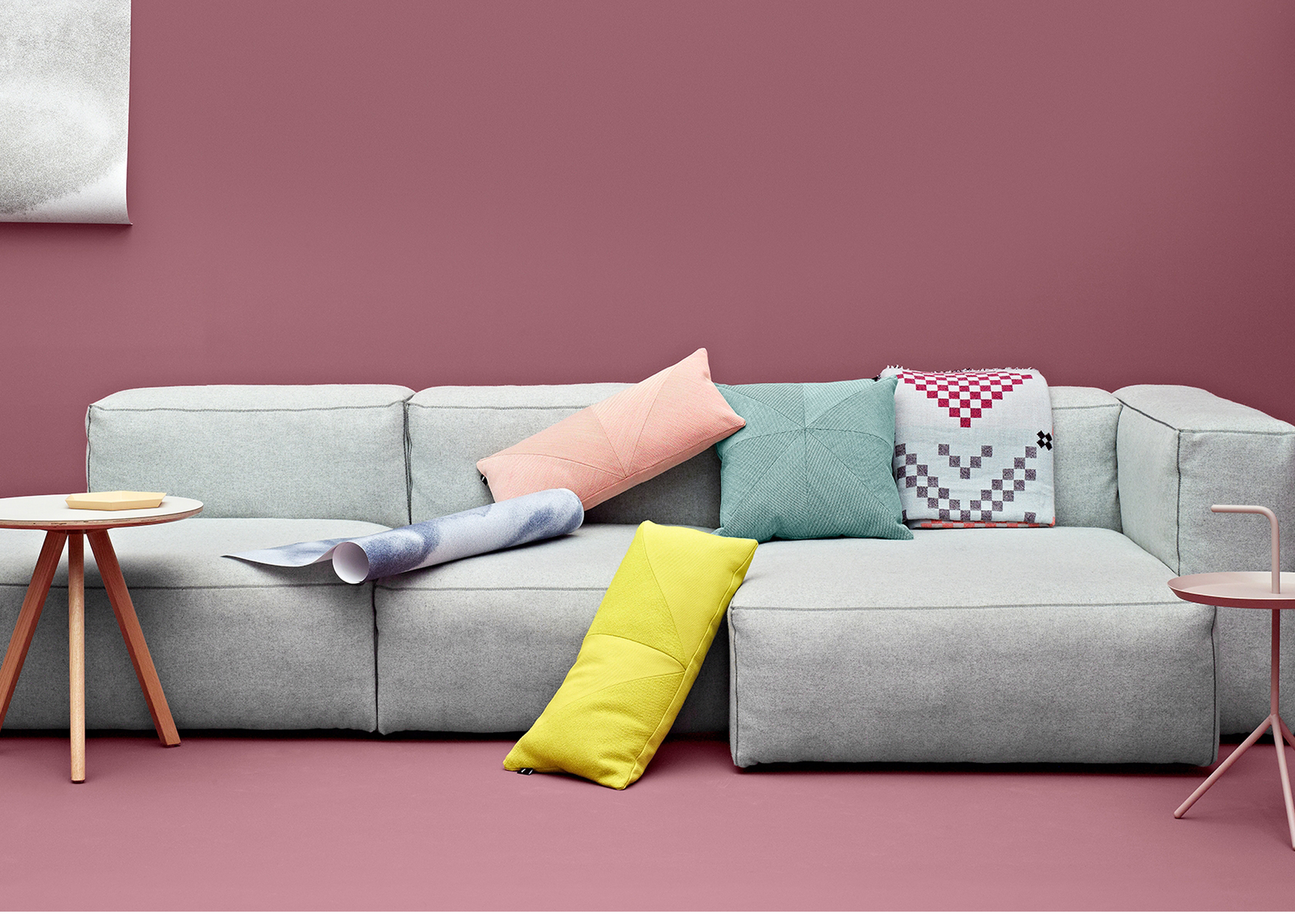
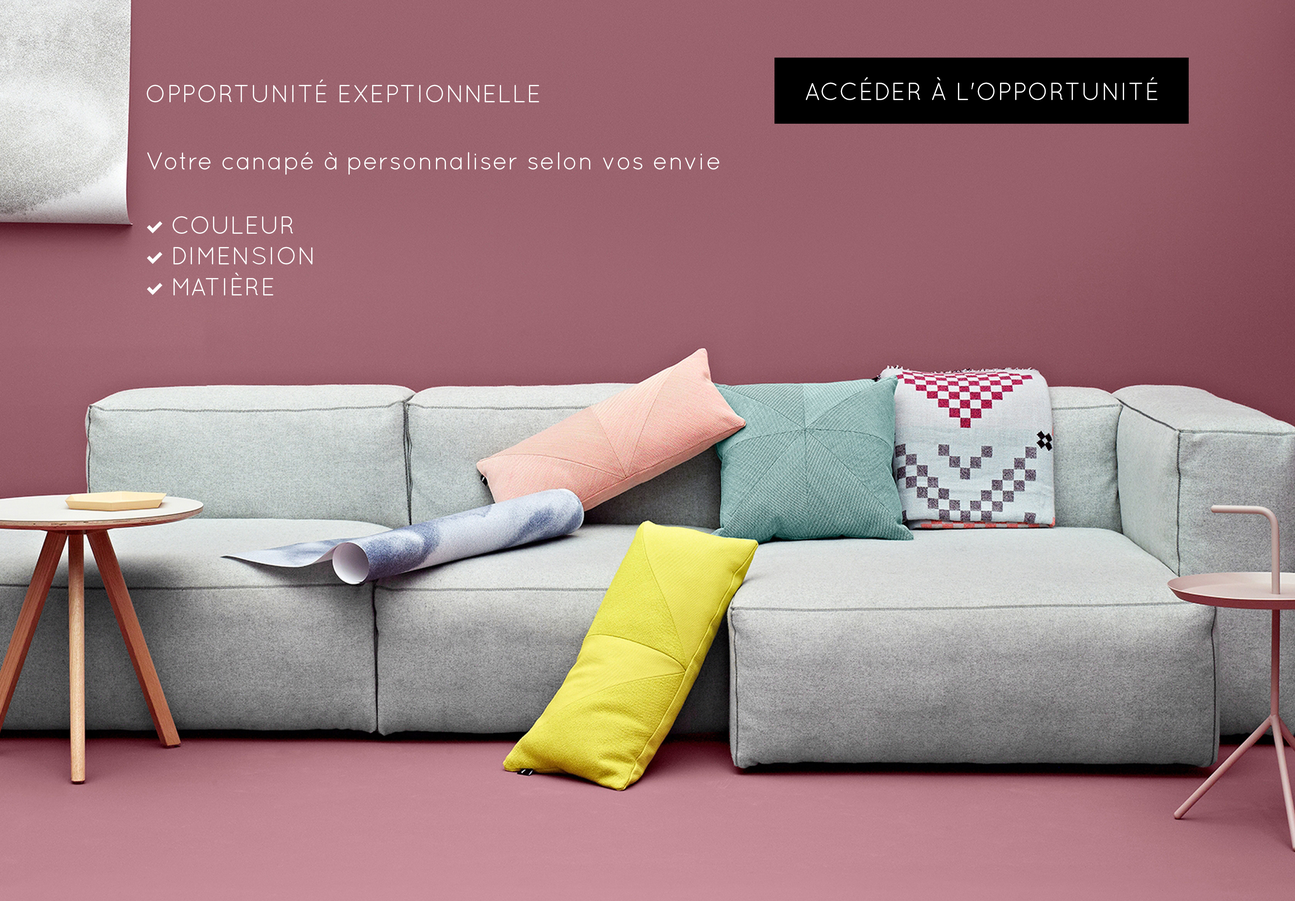
fiche ambiance news

diff --git a/public/css/main.css b/public/css/main.css
@@ -284,10 +284,19 @@ a:hover, a:active{
     .opportunity{
         min-height: 600px;
         position: relative;
+        cursor: pointer;
     }
 
     .opportunity .container {
         padding: 40px 0;
+        position: relative;
+        height:600px;
+    }
+
+    .opportunity-content {
+        position: absolute;
+        bottom: 100px;
+        width:100%;
     }
 
     .opportunity .opportunity-content p {
@@ -308,6 +317,7 @@ a:hover, a:active{
     .opportunity .hdg-button-default {
         display: block;
         margin: auto;
+        float: right;
     }
     .opportunity h3.sub-title {
         font-size: 18px;
@@ -340,6 +350,15 @@ a:hover, a:active{
     .actualites .thumbnail .caption {
         padding-right: 0;
         padding-left: 0;
+    }
+
+    .actualites .image-news img {
+        max-width: 100%;
+    }
+    .actualites .image-news {
+        height: 200px;
+        width: 100%;
+        overflow: hidden;
     }
     /* END BLOC ACTUALITES HOMEPAGE */
 

diff --git a/public/css/ambiances.css b/public/css/ambiances.css
@@ -157,6 +157,9 @@
 	height:600px;
 }
 
+section.produits-ambiance {
+	margin-bottom: 30px;
+}
 
 .ambiance-header {
 	background-color: black;
@@ -165,7 +168,10 @@
 	text-align: center;
 	text-transform: uppercase;
 }
-
+.ambiance-header i{
+	color: white;
+	font-size:11px;
+}
 .prev-ambiance{
 	text-align: left;
 }
@@ -178,8 +184,15 @@ h1.titre-ambiance{
 	font-size:28px;
 }
 
-.prev-ambiance,
-.next-ambiance,
+a.prev-ambiance,
+a.next-ambiance,
 h1.titre-ambiance{
 	vertical-align: middle;
+	color: white;
+	display: block;
+}
+
+a.prev-ambiance:hover,
+a.next-ambiance:hover{
+	color: white;
 }

diff --git a/resources/views/pages/front.blade.php b/resources/views/pages/front.blade.php
@@ -102,22 +102,18 @@
 		</div>
 
 		<div class="container">
-		    <h1 class="title">Opportunité exeptionnelle</h1>
+		    <!--h1 class="title">Opportunité exeptionnelle</h1>
 		    <h3 class="sub-title">Votre canapé à personnaliser selon vos envie</h3>
 		    <span>Couleur</span>
 		    <span>Dimension</span>
-		    <span>Matière</span>
+		    <span>Matière</span-->
 		    
 		    <div class="opportunity-content">
-		    	<div class="row"></div>
 		    	<div class="row">
-		    		<div class="col-md-6">
+		    		<div class="col-md-6 col-xs-12">
 		    			<p>Restez informer de nouvelles opportunités</p>
 		    			<input class="hdg-input-default" type="text" placeholder="Votre adresse email"></input>
 		    			<button class="hdg-button-small">Valider</button>
-		    		</div>
-		    		<div class="col-md-6">
-		    			<button class="hdg-button-default">Accéder à l'opportunité</button>
 		    		</div>
 		    	</div>	
 		    </div>		
@@ -130,7 +126,9 @@
 		<div class="container">
 			<div class="col-md-6">
 				<div class="thumbnail news">
-			      <img src="http://placehold.it/540x150">
+					<div class="image-news">
+						<img src="{{ asset('img/news/news3.jpeg') }}">
+					</div>
 			      <div class="caption">
 			        <h3 class="news-title">Nouvelle collection bientôt sur notre site</h3>
 			        <p>
@@ -142,7 +140,9 @@
 			</div>
 			<div class="col-md-3">
 				<div class="thumbnail news">
-			      <img src="http://placehold.it/255x150">
+					<div class="image-news">
+						<img src="{{ asset('img/news/news1.jpeg') }}">
+					</div>
 			      <div class="caption">
 			        <h3 class="news-title">ça parle de nous</h3>
 			        <p>
@@ -154,7 +154,9 @@
 			</div>
 			<div class="col-md-3">
 				<div class="thumbnail news">
-			      <img src="http://placehold.it/255x150">
+					<div class="image-news">
+						<img src="{{ asset('img/news/news2.jpeg') }}">
+					</div>
 			      <div class="caption">
 			        <h3 class="news-title">Comment décorer votre salon?</h3>
 			        <p>

diff --git a/resources/views/pages/fiche-ambiance.blade.php b/resources/views/pages/fiche-ambiance.blade.php
@@ -91,7 +91,7 @@
 		</div>
 	</div>
 
-	<section>
+	<section class="produits-ambiance">
 			<div class="row">
 				@if($ambiance->produits->count() !== 0)
 					@foreach($ambiance->produits as $produit)
